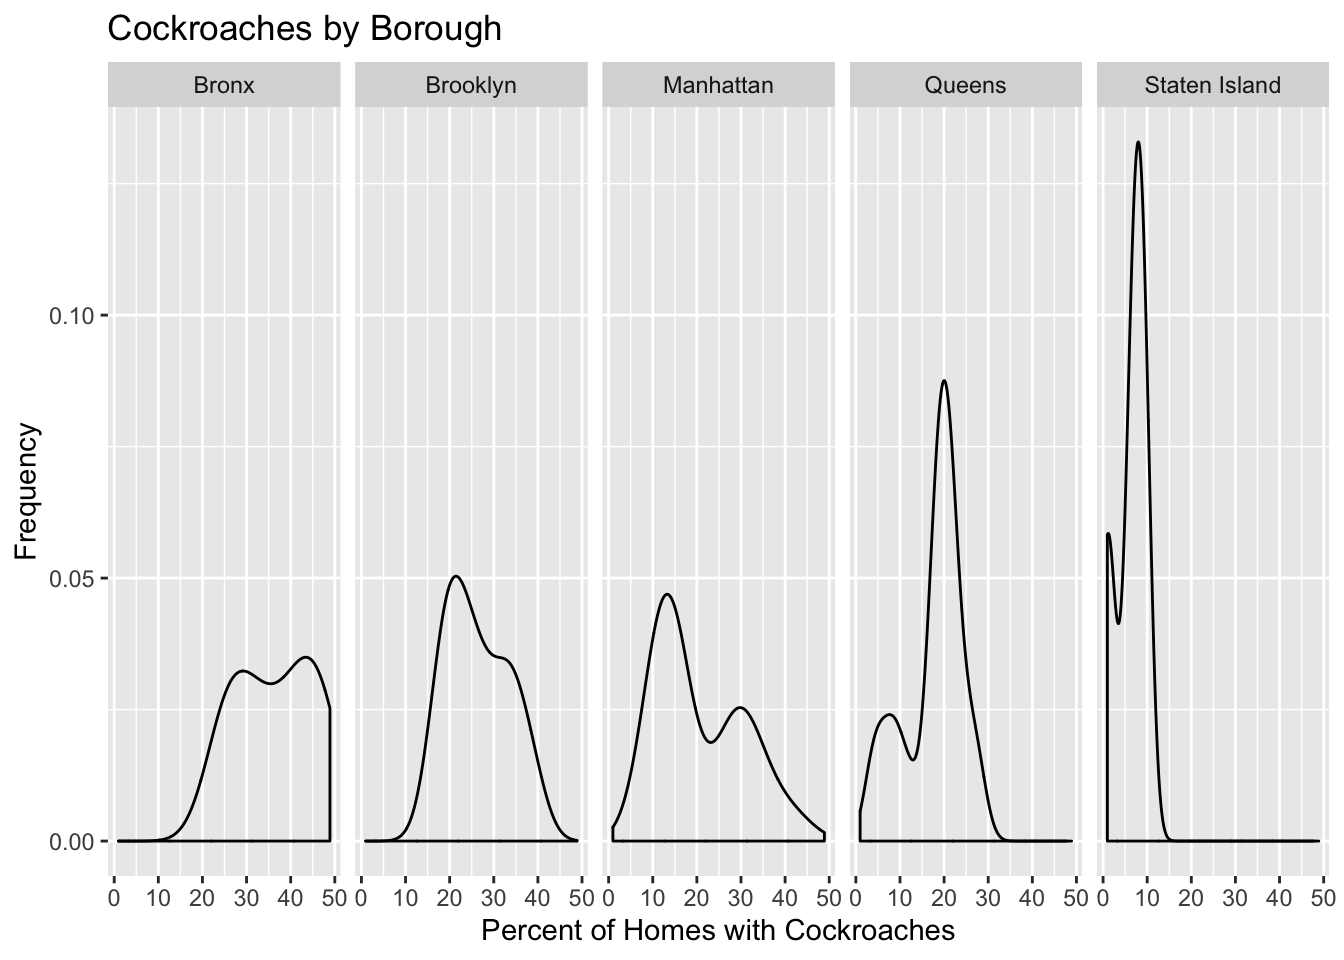
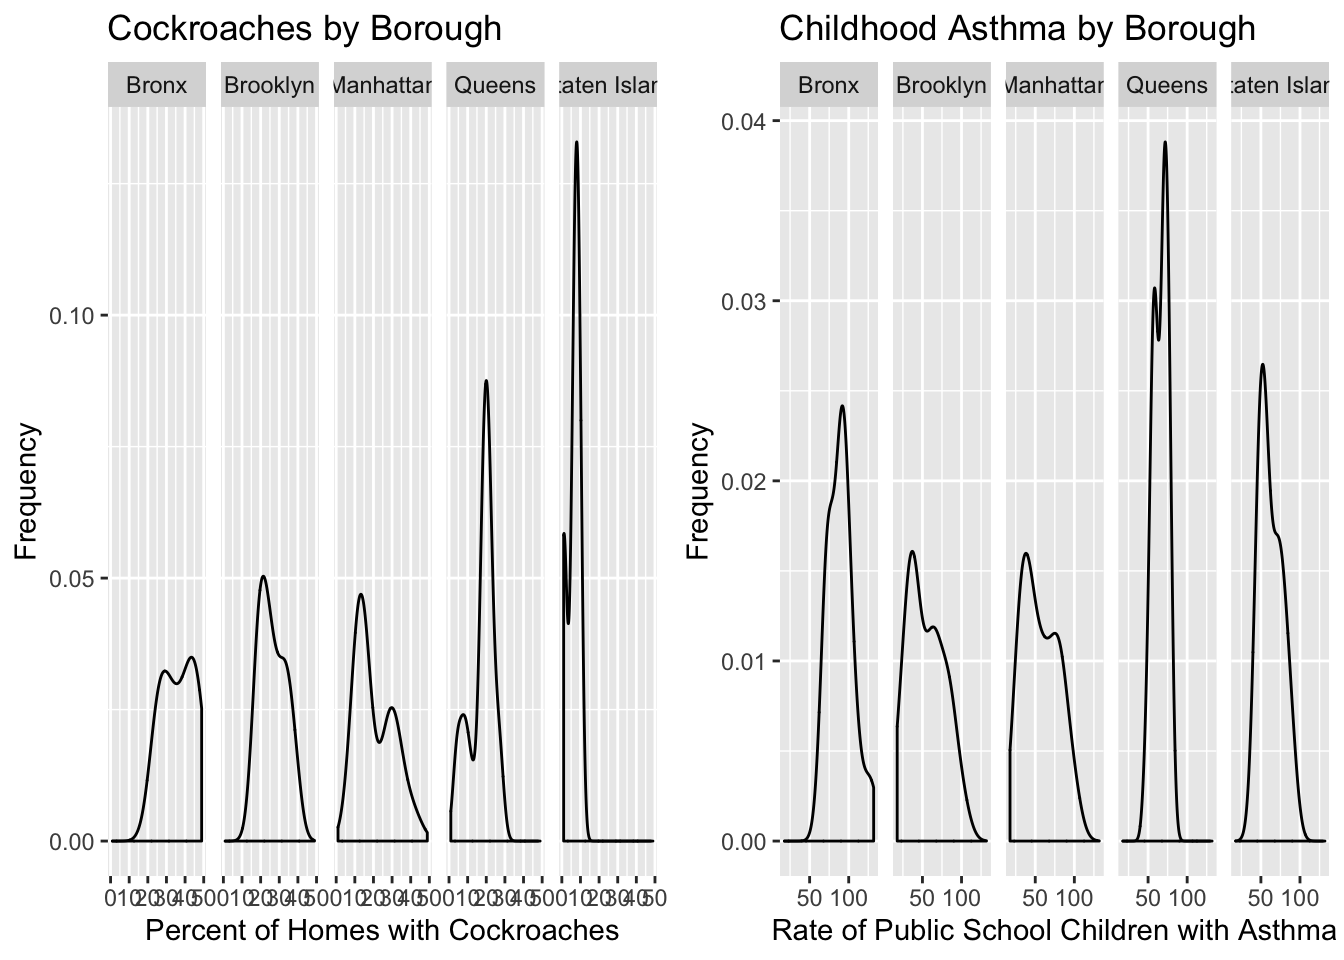
priyanka overview

Changed region(s): [[0.0625, 0.0, 1.0, 1.0]]

diff --git a/Overview.html b/Overview.html
@@ -396,13 +396,13 @@ div.tocify {
 </div>
 
 
-<div id="introduction" class="section level2">
-<h2>Introduction</h2>
-<p>Asthma is one of the most common chronic conditions in children across the United States, currently affecting more than <a href="https://www.aafa.org/asthma-facts/">6 million children</a>. New York City (NYC) hosts a much higher prevalence of childhood asthma <a href="https://www1.nyc.gov/assets/doh/downloads/pdf/epi/databrief90.pdf">(13%)</a> than the rest of the United States <a href="https://www.cdc.gov/nchs/fastats/asthma.htm">(7.5%)</a></p>
+<div id="introduction-and-motivation" class="section level2">
+<h2>Introduction and Motivation</h2>
+<p>Asthma is one of the most common chronic conditions in children across the United States, currently affecting more than <a href="https://www.aafa.org/asthma-facts/">6 million children</a>. New York City (NYC) hosts a much higher prevalence of childhood asthma <a href="https://www1.nyc.gov/assets/doh/downloads/pdf/epi/databrief90.pdf">(13%)</a> than the rest of the United States <a href="https://www.cdc.gov/nchs/fastats/asthma.htm">(7.5%)</a>. Interestingly, literature also shows an association between cockroach levels, and cockroach populations are projected to continue increasing in NYC. This project was done to explore the relationship between cockroach prevalence in NYC and rate of asthma among public school children aged 5-14.</p>
 </div>
 <div id="initial-questions" class="section level2">
 <h2>Initial Questions</h2>
-<p>Based on existing literature discussed in our <a href="about.html">about</a> page, we can see that cockroaches and related allergens could be correlated with prevalence of asthma in New York City. For example, the charts below show the distributions of cockroaches (left) and childhood asthma (right) by NYC borough. We are interested in exploring the <strong>relationship between cockroaches and asthma prevalence</strong> in New York City. To do so, we wanted to <strong>visualize the prevalence of roaches and asthma in New York as well as their correlations</strong> using what we have learned in the course so far. Using our tidied dataset described below, we explored these interests.</p>
+<p>Based on existing literature discussed in our <a href="about.html">about</a> page, we can see that cockroaches and related allergens could be correlated with prevalence of asthma in New York City. For example, the charts below show the distributions of cockroaches (left) and childhood asthma (right) by NYC borough. We are interested in exploring the relationship between cockroaches and asthma prevalence in New York City, <strong>predicting that neighborhoods with a greater number of homes with cockroaches would also show higher rates of asthma in our population</strong>. To do so, we wanted to <strong>visualize the prevalence of roaches and asthma in New York as well as their correlations</strong> using what we have learned in the course so far. Using our tidied dataset described below, we explored these interests.</p>
 </div>
 <div id="data" class="section level2">
 <h2>Data</h2>
@@ -494,7 +494,7 @@ write.csv(tidy_asthma,&quot;./final_data/tidy_asthma.csv&quot;, row.names = FALS
 <h2>Preliminary Analysis</h2>
 <div id="cockroach-and-asthma-distributions-by-borough" class="section level3">
 <h3><em>Cockroach and Asthma Distributions by Borough</em></h3>
-<p>Using our tidied dataset, we first looked at the distribution of homes with cockroaches and distribution of public school children, ages 5-14 years old, with asthma by NYC borough. These frequency distributions give insight into how these two might be related.</p>
+<p>Using our tidied dataset, we first looked at the distribution of homes with cockroaches and distribution of public school children, ages 5-14 years old, with asthma by NYC borough. The frequency distributions below, depicted separately as density plots and together in a violin plot, give insight into how these two might be related.</p>
 <pre class="r"><code>p1 = 
   tidy_asthma_sf_ll %&gt;%
   ggplot(aes(x = homes_with_cockroaches)) + 
@@ -515,13 +515,8 @@ p2 =
     y = &quot;Frequency&quot;,
     title = &quot;Childhood Asthma by Borough&quot;)
 
-p1</code></pre>
+p1 + p2</code></pre>
 <p><img src="Overview_files/figure-html/unnamed-chunk-2-1.png" width="672" /></p>
-<pre class="r"><code>p2</code></pre>
-<p><img src="Overview_files/figure-html/unnamed-chunk-2-2.png" width="672" /></p>
-</div>
-<div id="cockroaches-and-asthma-by-borough" class="section level3">
-<h3><em>Cockroaches and Asthma by Borough</em></h3>
 <pre class="r"><code>shape = st_read(&quot;./final_data/shapefiles/&quot;, quiet = TRUE)
 
 tidy_asthma_sf = merge(shape, tidy_asthma, by.x = &quot;UHFCODE&quot;, by.y = &quot;geo_join_id&quot;) %&gt;% 
@@ -546,7 +541,7 @@ roach_asth_borough =
 
 roach_asth_borough</code></pre>
 <p><img src="Overview_files/figure-html/unnamed-chunk-3-1.png" width="672" /></p>
-<p>To assess the crude relationship between these two variables, we analyzed the cockroach and asthma relationship by borough. Our prediction was that boroughs with higher cockroach distributions would have higher asthma rates. These violin plots support our initial hypothesis with the Bronx having both the highest cockroach distribution and asthma rates.</p>
+<p>To assess the crude relationship between these two variables, we analyzed the relationship between homes with cockroaches and asthma by borough. Our prediction was that boroughs with higher cockroach distributions would have higher asthma rates. These violin plots support our initial hypothesis, with the Bronx having both the highest distribution of homes with cockroaches and asthma rates.</p>
 </div>
 <div id="correlation-matrix" class="section level3">
 <h3><em>Correlation Matrix</em></h3>
@@ -600,11 +595,11 @@ plot_tidy</code></pre>
 <h3><em>Table 1</em></h3>
 <pre class="r"><code>crude_model = lm(public_school_children_5_14_yrs_old_with_asthma ~ homes_with_cockroaches, data = tidy_asthma)
 
-model1_fit = lm(public_school_children_5_14_yrs_old_with_asthma ~ homes_with_cockroaches * poverty, data = tidy_asthma)
+model1_fit = lm(public_school_children_5_14_yrs_old_with_asthma ~ homes_with_cockroaches + poverty, data = tidy_asthma) 
 
-model2_fit = lm(public_school_children_5_14_yrs_old_with_asthma ~ homes_with_cockroaches + poverty, data = tidy_asthma) 
+model2_fit = lm(public_school_children_5_14_yrs_old_with_asthma ~ homes_with_cockroaches * poverty, data = tidy_asthma)
 
-tab_model(crude_model, model2_fit, model1_fit, show.stat = TRUE, show.aic = TRUE)</code></pre>
+tab_model(crude_model, model1_fit, model2_fit, show.stat = TRUE, show.aic = TRUE)</code></pre>
 <table style="border-collapse:collapse; border:none;">
 <tr>
 <th style="border-top: double; text-align:center; font-style:normal; font-weight:bold; padding:0.2cm;  text-align:left; ">
@@ -857,7 +852,7 @@ AIC
 </tr>
 </table>
 <hr />
-<p>We chose the crude model in the end because poverty may be a large confounder of the relationship between homes with cockroaches and rate of asthma. Our final estimated model based on the first column is below:</p>
+<p>We chose the crude model in the end because poverty may be a large confounder of the relationship between homes with cockroaches and rate of asthma. Our final estimated model predicting <code>public_school_children_5_14_yrs_old_with_asthma</code> based on the first column is below:</p>
 <p><span class="math display">\[ y_i = 43.65 + 0.11*homes\_with\_cockroaches + \epsilon_{i} \]</span></p>
 <p>Future exploration could include analysis on poverty as a confounder or effect measure modifier. Further analysis should also include demographic variables and their interactions to improve significance, the <span class="math inline">\({r}^2\)</span> value, and further decrease the AIC.</p>
 </div>
